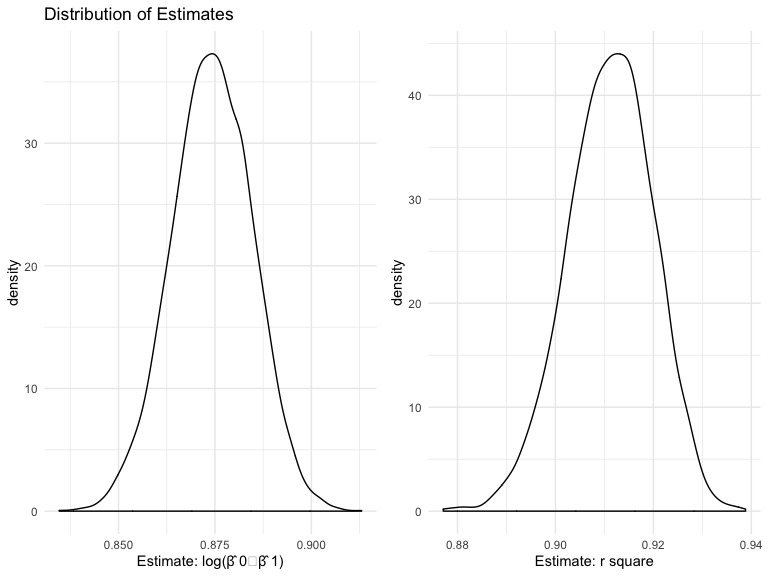
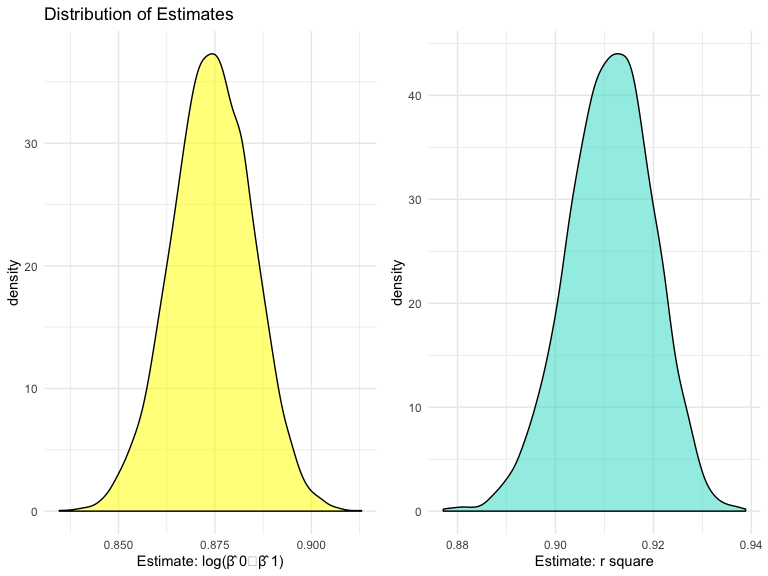
Fix minor error

Changed region(s): [[0.5938, 0.0938, 0.9688, 0.9062], [0.0938, 0.0938, 0.4375, 0.9062]]

diff --git a/p8105_hw6_yc3508.md b/p8105_hw6_yc3508.md
@@ -213,19 +213,26 @@ boot_sample_2 = weather_df %>%
   select(r.squared)
 ```
 
-**Plot the distribution of log(β̂ 0∗β and r squarê
-**
+**Plot the distribution of log(β̂ 0∗β and r squarê **
 
 ``` r
-plotA = boot_sample %>% ggplot(aes(x = log_estimate)) + geom_density() + labs(x = "Estimate: log(β̂ 0∗β̂ 1)", title = "Distribution of Estimates")
-plotB = boot_sample_2 %>% ggplot(aes(x = r.squared)) + geom_density() + labs(x = "Estimate: r square")
+plotA = boot_sample %>% 
+  ggplot(aes(x = log_estimate, fill = log_estimate)) + 
+  geom_density(aes(alpha = 0.1), fill = "yellow") + 
+  labs(x = "Estimate: log(β̂ 0∗β̂ 1)", title = "Distribution of Estimates") +
+  theme(legend.position = "none")
+plotB = boot_sample_2 %>% 
+  ggplot(aes(x = r.squared, fill = r.squared)) + 
+  geom_density(aes(alpha = 0.1), fill = "turquoise") + 
+  labs(x = "Estimate: r square") +
+  theme(legend.position = "none")
 
 plotA + plotB
 ```
 
 <img src="p8105_hw6_yc3508_files/figure-gfm/unnamed-chunk-12-1.png" width="90%" />
 
-Both distribution do not have heavy tails, indicating these two
+Both plots of distribution do not have heavy tails, indicating these two
 bootstrapping samples do not have extensive outliers. Even though the
 distribution of r square is slightly skewed in the left tail, we can
 conclude that both estimates are normal distributions.
